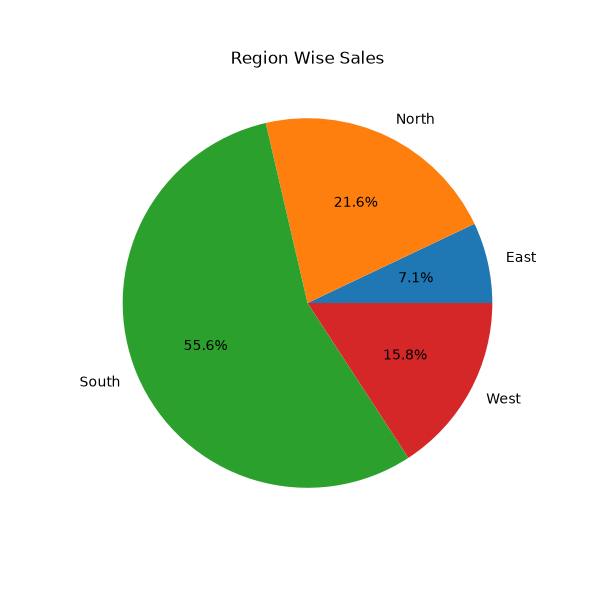
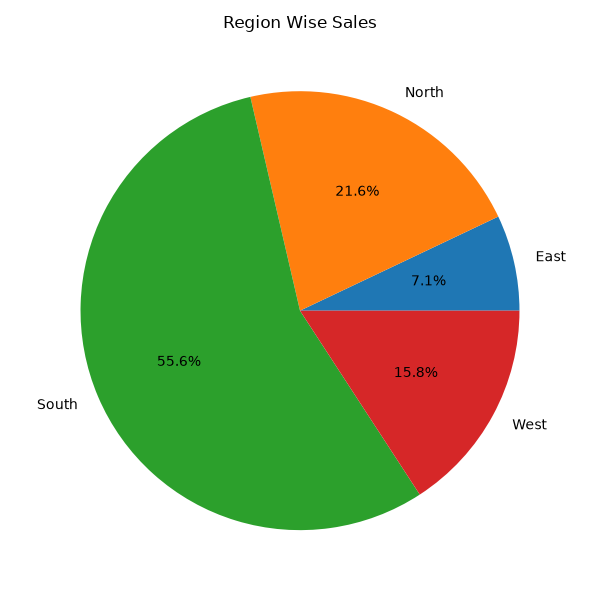
Updated analysis and charts

diff --git a/notebooks/analysis.py b/notebooks/analysis.py
@@ -1,36 +1,65 @@
 import pandas as pd
-
-# Read the CSV file
-df = pd.read_csv("dataset/retail_sales.csv")
-
-# Display first 5 rows
-print(df.head())
-print("\nDataset Information:")
-print(df.info())
-print("\nDataset Shape:")
-print(df.shape)
-print("\nColumn Names:")
-print(df.columns)
-print("\nMissing Values:")
-print(df.isnull().sum())
-print("\nDuplicate Records:")
-print(df.duplicated().sum())
-df = df.drop_duplicates()
-print("\nTotal Sales:")
-print(df["Sales"].sum())
-print("\nTotal Profit:")
-print(df["Profit"].sum())
-print("\nTotal Quantity Sold:")
-print(df["Quantity"].sum())
-print("\nSales by Product:")
-print(df.groupby("Product")["Sales"].sum())
-print("\nRegion Wise Sales:")
-print(df.groupby("Region")["Sales"].sum())
 import matplotlib.pyplot as plt
 
+# Read CSV
+df = pd.read_csv("dataset/retail_sales.csv")
+
+# Display Information
+print("First 5 Rows:")
+print(df.head())
+
+print("\nDataset Information:")
+print(df.info())
+
+print("\nDataset Shape:")
+print(df.shape)
+
+print("\nColumn Names:")
+print(df.columns)
+
+print("\nMissing Values:")
+print(df.isnull().sum())
+
+print("\nDuplicate Records:")
+print(df.duplicated().sum())
+
+# Remove duplicates
+df = df.drop_duplicates()
+
+# Basic Analysis
+print("\nTotal Sales:")
+print(df["Sales"].sum())
+
+print("\nTotal Profit:")
+print(df["Profit"].sum())
+
+print("\nTotal Quantity Sold:")
+print(df["Quantity"].sum())
+
+print("\nSales by Product:")
+print(df.groupby("Product")["Sales"].sum())
+
+print("\nRegion Wise Sales:")
+print(df.groupby("Region")["Sales"].sum())
+
+# -------------------------------
+# Sales Chart
+# -------------------------------
 sales = df.groupby("Product")["Sales"].sum()
 
+plt.figure(figsize=(10,5))
+sales.plot(kind="bar", color="skyblue")
+plt.title("Sales by Product")
+plt.xlabel("Products")
+plt.ylabel("Sales")
+plt.xticks(rotation=0, ha="center")
+plt.tight_layout()
+plt.savefig("images/sales_chart.png")
+plt.show()
 
+# -------------------------------
+# Profit Chart
+# -------------------------------
 profit = df.groupby("Product")["Profit"].sum()
 
 plt.figure(figsize=(10,5))
@@ -38,15 +67,20 @@ profit.plot(kind="bar", color="green")
 plt.title("Profit by Product")
 plt.xlabel("Products")
 plt.ylabel("Profit")
-plt.xticks(rotation=0)
+plt.xticks(rotation=0, ha="center")
 plt.tight_layout()
 plt.savefig("images/profit_chart.png")
 plt.show()
+
+# -------------------------------
+# Region Wise Sales Pie Chart
+# -------------------------------
 region = df.groupby("Region")["Sales"].sum()
 
 plt.figure(figsize=(6,6))
 region.plot(kind="pie", autopct="%1.1f%%")
 plt.title("Region Wise Sales")
 plt.ylabel("")
+plt.tight_layout()
 plt.savefig("images/region_chart.png")
 plt.show()
